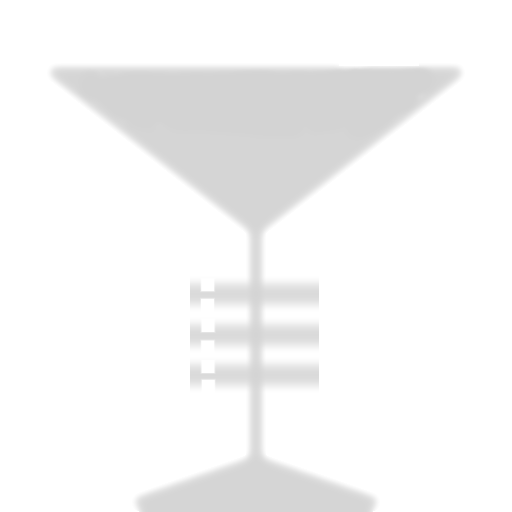
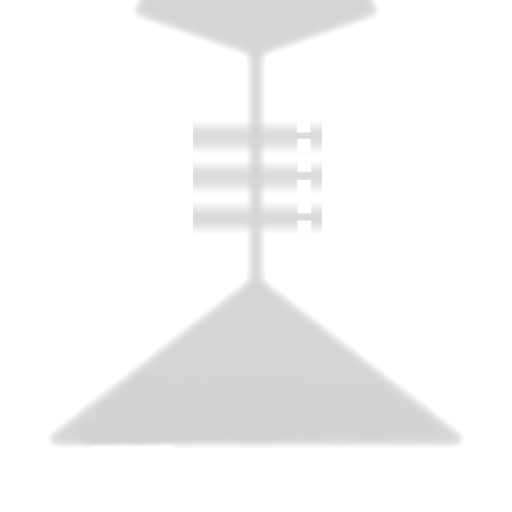
1st draft with new cover

Changed region(s): [[0.0938, 0.5312, 0.9062, 1.0], [0.0938, 0.0, 0.9062, 0.4688]]

diff --git a/liner-notes.html b/liner-notes.html
@@ -8,8 +8,15 @@
   <link href="https://fonts.googleapis.com/css?family=Josefin+Sans&display=swap" rel="stylesheet">
   <!-- <link href="https://fonts.googleapis.com/css?family=Cantata+One&display=swap" rel="stylesheet"> -->
   <style>
+    /*
+    Blue: #00b8ff
+    Yellow: #ffaf14
+    Cyan: #00fff8
+    Lime: #86e603
+    Magneta: #ff00f6
+    */
     @media all {
-      *{ color-adjust: exact; -webkit-print-color-adjust: exact; print-color-adjust: exact; }
+      *{ color-adjust: exact; -webkit-print-color-adjust: exact; -moz-print-color-adjust: exact; }
       body {
         /* font-family: "Cantata One" serif; */
         font-family: 'Josefin Sans', sans-serif;
@@ -26,11 +33,6 @@
       hr {
         border-color: #EEE;
         border-width: 0px 0px 1px 0px;
-      }
-      .mask {
-        z-index: 1;
-        width: 100%;
-        height: 100%;
       }
       #title {
         z-index: 2;
@@ -58,13 +60,18 @@
       }
       .row>div.inside {
         background: #eee;
-        color: #0D2149;
+        /* color: #0D2149; */
+        color: #303030;
         font-size: 0.75em;
         padding: 1em;
         width: calc(4.75in - 3em);
         height: calc(4.75in - 2em);
       }
-  
+      .inside img:not(.color) {
+        opacity: 0.6;
+        -webkit-filter: grayscale(100%) brightness(1.2); /* Safari 6.0 - 9.0 */
+        filter: grayscale(100%) brightness(1.2);
+      }
       .row>div.left {
         padding-right: 2em;
       }
@@ -73,6 +80,7 @@
       }
       .col {
         width: 50%;
+        position: relative;
       }
       .col>p {
         margin: 0;
@@ -82,11 +90,11 @@
       }
 
       #front {
-        background-image: url('square m.png');
+        background-image: url('mocktail doodle.png');
       }
       #back {
-        background: #141414;
-        color: #eee;
+        background: #303030;
+        color: #00b8ff;
         padding: 1em;
         width: calc(4.75in - 2em);
         height: calc(4.75in - 2em);
@@ -95,7 +103,7 @@
         font-size: 0.75rem;
       }
       #back h3 {
-        color: #cda34f;
+        color: #ffaf14;
         font-weight: 100;
         font-size: 1.17em;
       }
@@ -106,7 +114,7 @@
         font-size: 1em;
       } 
       #acknowledgements {
-        margin: 5em 0 4em;
+        margin: 2.5em 0 0;
       }
       #copyright {
         position: absolute;
@@ -116,6 +124,15 @@
         left: 50%;
         transform: translateX(-50%);
         text-align: center;
+      }
+      article.row,
+      img.color,
+      .col>img {
+        position: absolute;
+        bottom: 1em;
+      }
+      .col>img {
+        bottom: 0;
       }
     }
   </style>
@@ -140,23 +157,27 @@
       <p id="acknowledgements">
         To our families, our wives, and children who are with us the whole way and supportive of our musical dreams. 
         To Madison Van Vleet and Corinn LeBaron for providing amazing live vocals for the group.
-        To Noah Lefgren for always being on call to lend his musical talents.
+        To Noah Lefgren for always being on call to lend your musical talents.
         To Ahi Muse steak and sushi in Orem for providing us with our first steady gig and sticking with us through the up and down performances.
         To Merit Academy for letting us use their music room as rehearsal space.
         To all our friends who have been there at gigs and put in time behind the scenes to take pictures, promote us, and support us.
-        Thank you all for making this possible.
+        Thank you all for making this possible.<br/><br/>
+        Recorded at the Buckley's house.<br/> 
+        Produced by Robert Alger and David Buckley.<br/>
+        Mixed by Robert Alger, David Buckley, and Aaron Vaughn.<br/> 
+        Mastered by Robert Alger.<br/>
+        Cover art by J.R. Chambers.<br/>
       </p>
       <p id="copyright">
-        Produced, mixed, and mastered by Robert Alger and David Buckley<br/>
         theguests.band &middot; mountainsidemusic.com &middot; davidjaybuckley.com<br/>
-        &copy; 2019 Mountainside Music &middot; Provo, UT
+        &copy; 2019 Mountainside Music &middot; Provo, UT        
       </p>
     </div>
     <div id="front">
-      <div id="mask" style="background: rgba(31, 51, 32, 0.2);"></div>
+      <!-- <div id="mask" style="background: rgba(31, 51, 32, 0.2);"></div>
       <div id="title">
         <span>mocktail party</span>
-      </div>
+      </div> -->
     </div>
   </section>
   
@@ -165,7 +186,7 @@
       <h1>1 &middot Hold On Tight</h1>
       <p>"One of my favorite sounds is the Hammond B3 Organ. I love listening to guys like Jimmy Smith, Joey DeFrancesco, and Cory Henry. I wrote the shout chorus to this song in 2017 while experimenting with some traditional gospel chord changes and the rest materialized once The Guests came together and Cooper's voice took the tune to the heights I had hoped it could reach. I just wanted to get a song with an uplifting message out there." - <i>David Buckley</i></p>
       <article class="row">
-        <article class="col">
+        <article class="col" style="padding-bottom: 1em;">
           <h3>Lyrics</h3>
           <p>So many things in this world try to get you down</p>
           <p>But I'm telling you, if you stick around</p>
@@ -197,20 +218,55 @@
           <p>I say, it's gonna be okay</p>
           <p>It's gonna be okay</p>
           <br/>
-          <img src="keys sm.jpg" style="width: 100%;">
+          <img src="keys sm.jpg" style="width: 95%;">
         </article>
       </article>
     </div>
     <div class="inside right">
       <h1>6 &middot Gold Beat</h1>
       <p>"Gold Beat is just fun. I wanted to write something that was going to be challenging, simple, and groovy. My biggest influences on this were definitely Scary Pockets and Brasstracks. With some lyrical help from Bobby and a website open with everything that rhymes with "Corolla," this tune came together fast. - <i>Spencer Breeze</i></p>
+      <article class="row">
+        <article class="col">
+          <h3>Lyrics</h3>
+          <p>Bunch of suits sitting in their office, in their seats</p>
+          <p>They're searching for something live for, a pulse, or even a beat</p>
+          <p>Let me tell you friend, all that glitters will turn to mold</p>
+          <p>I ain't no king Midas but that beat was gold</p>
+          <br/>     
+          <img src="ahi.jpg" alt="" style="width: 95%;">     
+        </article>
+        <article class="col" style="padding-bottom: 2em;">
+          <br/>
+          <p><b>Chorus</b></p>
+          <p>I don't care if you drive a Corolla</p>
+          <p>I don't care if you cook with canola</p>
+          <p>Come on, get up, move your feet</p>
+          <p>No need for money when you got the beat</p>
+          <p>I don't care if you're from Pensacola</p>
+          <p>I don't care if you drink Coca-Cola</p>
+          <p>Come on, get up, move your feet</p>
+          <p>No need for money when you got the beat</p>
+          <br/>
+          <p>We spend our whole lives working day and night, always on the grind</p>
+          <p>You'll never ease that appetite if money's on the mind</p>
+          <p>So grow up, live a little, before it gets old</p>
+          <p>I ain't from El Dorado but that beat was gold</p>
+          <br/>
+          <p><b>Chorus 2x</b></p>
+        </article>
+      </article>
     </div>
   </section>
 
   <section class="row">
     <div class="inside left">
       <h1>5 &middot Avenue L</h1>
-      <p>Lorem ipsum dolor sit amet, consectetur adipisicing elit. Fugiat quasi earum alias at aperiam? Impedit doloribus architecto fuga accusamus. Omnis aliquid voluptatem corrupti consectetur. Suscipit iure harum accusantium quas doloremque?</p>
+      <p>"The inspiration for this tune comes from my time living on the far-south side of Chicago called, interestingly enough, the 'East Side.' 
+        The roads in the East Side, and most of Chicago, are an intricate weave of one-way streets that can be confusing for newcomers and visitors. 
+        The trains and the soaring interstate speedway nicknamed 'the skyway' only add to the confusion for unfamiliar travellers. 
+        Nevertheless, there are quirks that make the madness beautiful: the series of drawbridges, the aging drydocks, the McDonald's in the middle of a six-lane freeway. 
+        I tried to capture some of that beautiful madness here." - <i>Robert Alger</i></p>
+      <img src="prom sm.jpg" class="color" style="width: 95%;">
     </div>
     <div class="inside right">
       <h1>2 &middot Stay Awhile</h1>
@@ -228,7 +284,7 @@
           <br/>
           <img src="wedding sm.jpg" alt="pic" style="width: 95%;">
         </article>
-        <article class="col">
+        <article class="col" style="padding-bottom: 1em;">
           <br/>
           <p>I couldn't believe that you would be the right one for me</p>
           <p>But being with you soon grew into pure ecstasy</p>
@@ -252,7 +308,7 @@
     <div class="inside left">
       <h1>3 &middot When I Look In Your Eyes</h1>
       <p>"I wrote this song on acoustic guitar in 2017. It's about personal struggles with weakness and finding salvation in someone you can put your faith in. The vibe of the song was primarily inspired by Allen Stone's self titled record, especially his slower tracks that feature acoustic guitar." - <i>David Buckley</i></p>
-      <article class="row">
+      <article class="row" style="width: 95%;">
         <article class="col">
           <h3>Lyrics</h3>
           <p>I know I'm not perfect</p>
@@ -278,7 +334,7 @@
           <p><b>Chorus 3x</b></p>
         </article>
         <article class="col">
-          <img src="sax.jpg" alt="pic" style="width: 100%; margin-top: 4px;">
+          <img src="sax.jpg" alt="pic" style="width: 95%; margin-top: 4px;">
         </article>
       </article>
     </div>
@@ -298,6 +354,7 @@
           <p>Hooked on a line that's been drifting with the current</p>
           <p>Trying to stave the tide</p>
           <br/>
+          <img src="drum sm.jpg" style="width: 95%;">
         </article>
         <article class="col">
           <br/>

diff --git a/back-o-cd.html b/back-o-cd.html
@@ -8,10 +8,12 @@
   <title>Back</title>
   <style>
     @media all {
-      *{ color-adjust: exact; -webkit-print-color-adjust: exact; print-color-adjust: exact; }
+      *{ color-adjust: exact; -webkit-print-color-adjust: exact; -moz-print-color-adjust: exact;}
       body {
+        -webkit-print-color-adjust: exact; /*chrome & webkit browsers*/
+        color-adjust: exact; /*firefox & IE */
         font-family: 'Josefin Sans', sans-serif;
-        color: #EEE;
+        color: #00b8ff;
         margin: 0;
         display: flex;
         justify-content: center;
@@ -22,7 +24,8 @@
       }
       section {
         height: 4.536in;
-        background: #373f27;
+        background-color: unset;
+        box-shadow: inset 0 0 0 1000px #303030;
         display: flex;
       }
       div {
@@ -32,7 +35,13 @@
         text-align: center;
         font-size: 20px;
         padding: 4.72px;
-        background-color: rgba(44, 51, 32, 0.1);/*#2c3320;*/
+        /*background-color: rgba(44, 51, 32, 0.1);#2c3320;*/
+        border-style: dashed;
+        border-color: #555555;
+        border-width: 0;
+        border-right-width: 1px;
+        border-left-width: 1px;
+        color: #ffaf14;
       }
       main {
         position: relative;
@@ -59,12 +68,15 @@
         text-align: center;
         font-size: 0.75em;
       }
+      h1 {
+        color: #ffaf14;
+      }
     }
   </style>
 </head>
 <body>
   <section>
-    <div>the guests &middot; mocktail party</div>
+    <div style="border-right-width: 1px;">the guests &middot; mocktail party</div>
     <main>
       <h1>mocktail party</h1>
       <hr/>
@@ -76,7 +88,7 @@
       <h3>gold beat</h3>
       <p id="copyright">&copy; 2019 Mountainside Music &middot; Provo, UT</p>
     </main>
-    <div>the guests &middot; mocktail party</div>
+    <div style="border-left-width: 1px;">the guests &middot; mocktail party</div>
   </section>
 </body>
 </html>

diff --git a/label.html b/label.html
@@ -8,10 +8,11 @@
   <title>Label</title>
   <style>
     @media all {
-      *{ color-adjust: exact; -webkit-print-color-adjust: exact; print-color-adjust: exact; }
+      *{ color-adjust: exact; -webkit-print-color-adjust: exact; -moz-print-color-adjust: exact; }
       body {
         font-family: 'Josefin Sans', sans-serif;
-        color: #0D2149;
+        /* color: #0D2149; */
+        color: #303030;
         margin: 0;
         display: flex;
         justify-content: center;
@@ -74,7 +75,7 @@
       }
       img {
         position: absolute;
-        top: 36%;
+        top: 35.8%;
         opacity: 0.5;
         height: 1.4in;
       }
@@ -86,7 +87,7 @@
     <div class="outer"></div>
     <div class="inner"></div>
     <img src="cocktail b.png" style="left: 5%;">
-    <img src="cocktail trumpv.png" style="right: 5%;">
+    <img src="cocktail trumpv.png" style="top: 40%; right: 5%;">
     <h1 class="title">the guests</h1>
     <section class="tracks">
       <p>mocktail party</p>
@@ -102,7 +103,7 @@
     <div class="outer"></div>
     <div class="inner"></div>
     <img src="cocktail b.png" style="left: 5%;">
-    <img src="cocktail trumpv.png" style="right: 5%;">
+    <img src="cocktail trumpv.png" style="top: 40%; right: 5%;">
     <h1 class="title">the guests</h1>
     <section class="tracks">
       <p>mocktail party</p>
